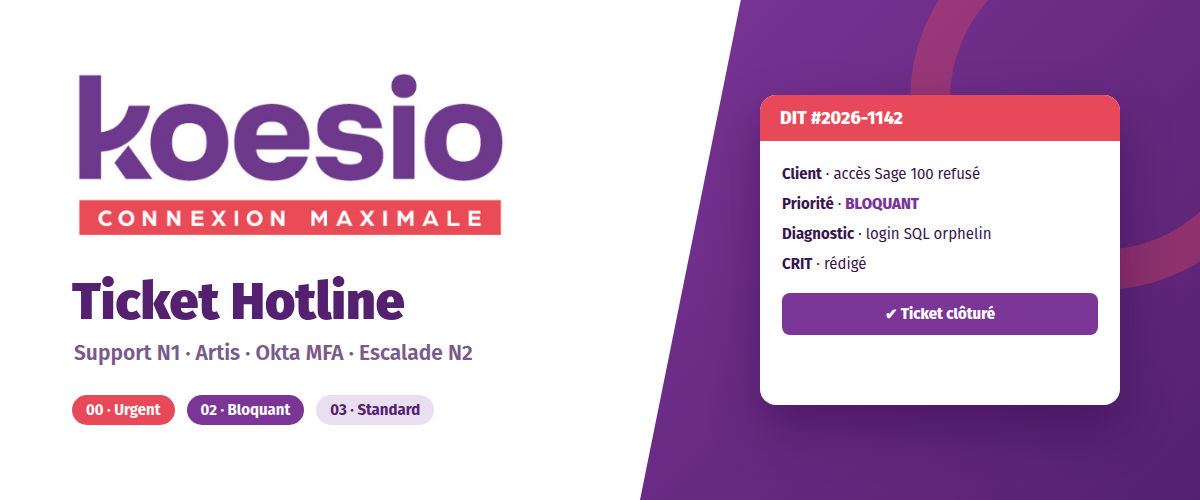
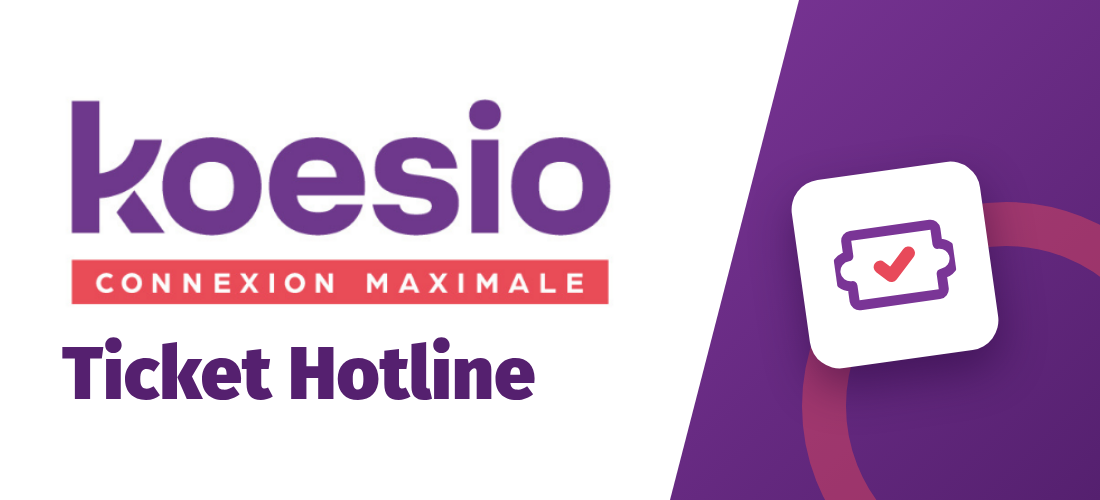
Visuel Koesio plein cadre dans la carte documentation

diff --git a/script.js b/script.js
@@ -182,6 +182,7 @@ const docsData = [
     categoryLabel: "Stage / Alternance",
     tags: ["Hotline", "Support N1", "Ticketing", "Artis", "Okta MFA", "Active Directory"],
     image: "./hotline-artis.png",
+    cover: true,
     pdfPath: "./Fiche_procedure_Hotline_Artis.pdf",
     downloadName: "Procedure-Ticket-Hotline-Artis.pdf",
     pages: 7,
@@ -281,7 +282,7 @@ function createDocsCard(doc) {
 
   return `
     <article class="docs-card" data-category="${doc.category}">
-      <div class="docs-card-image">
+      <div class="docs-card-image${doc.cover ? " docs-card-image--cover" : ""}">
         <img src="${encodeURI(doc.image)}" alt="" loading="lazy">
         <span class="docs-card-category">${doc.categoryLabel}</span>
       </div>

diff --git a/style.css b/style.css
@@ -1711,3 +1711,15 @@ img {
     gap: 14px;
   }
 }
+/* Visuel plein cadre (ex : Koesio) */
+.docs-card-image--cover {
+  padding: 0;
+}
+
+.docs-card-image--cover img {
+  width: 100%;
+  height: 100%;
+  max-width: none;
+  max-height: none;
+  object-fit: cover;
+}
